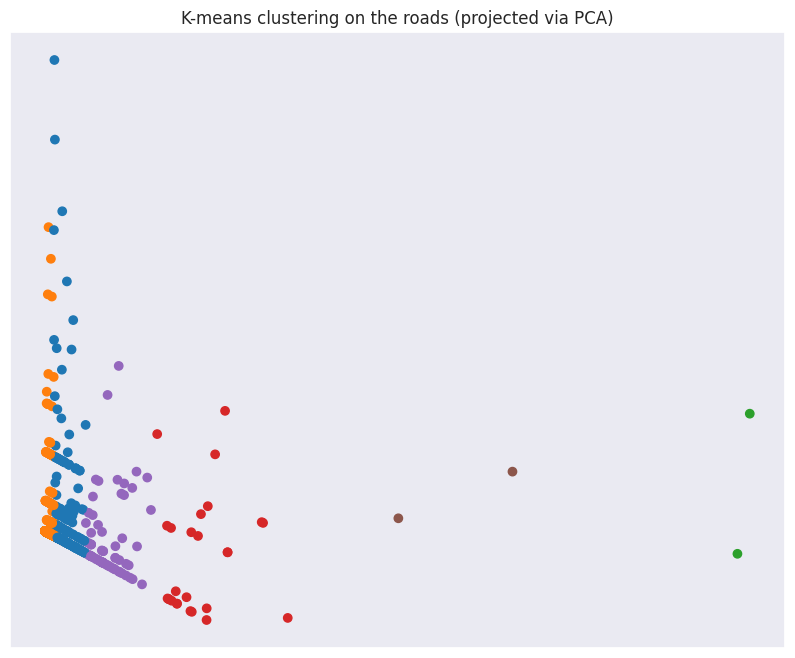
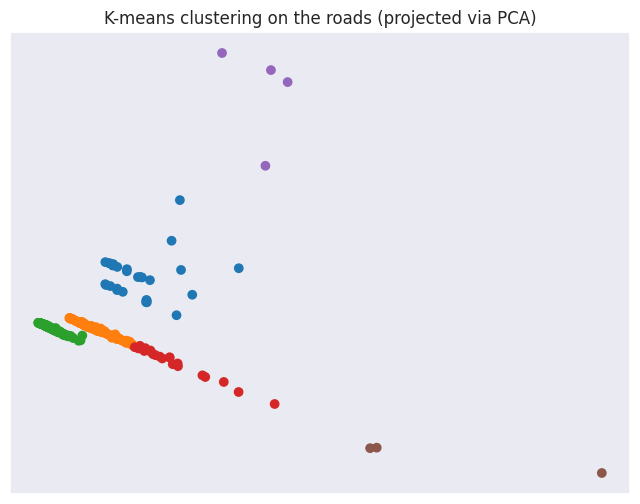
better classification and pca loadings

diff --git a/capstone_roads.py b/capstone_roads.py
@@ -28,7 +28,7 @@ plt.switch_backend("Agg")  # so no issues with GUI backend
 import seaborn as sns
 
 sns.set_style("darkgrid", {"axes.facecolor": ".9"})
-sns.set(rc={"figure.figsize": (10, 8)})
+sns.set(rc={"figure.figsize": (8, 6)})
 
 import pandas as pd
 from sklearn.cluster import KMeans
@@ -36,6 +36,7 @@ from sklearn.decomposition import PCA
 
 import matplotlib.colors as mcolors
 import os
+from numpy import abs, min, subtract
 
 
 def get_neighbors_and_update(this_dict, this_name, this_line, tree, data):
@@ -56,7 +57,7 @@ def create_data_for_road(i, set_of_looked_at_roads, list_of_dicts, tree, data):
     this_dict = {
         "road_name": "",
         "connections_names": [],
-        "is_named": True,
+        "is_named": 1,
         "self_connections": 0,
         "number_of_connector_roads": 0,
         "length": 0,
@@ -68,7 +69,7 @@ def create_data_for_road(i, set_of_looked_at_roads, list_of_dicts, tree, data):
     if (this_name[0] in {"1", "2", "3", "4", "5", "6", "7", "8", "9", "0"}) and (
         this_name[-1] in {"1", "2", "3", "4", "5", "6", "7", "8", "9", "0"}
     ):
-        this_dict["is_named"] = False
+        this_dict["is_named"] = 0.75  # arbitrary value for false
 
     if this_name not in set_of_looked_at_roads:
         # ignore it if the road has been looked at
@@ -187,10 +188,6 @@ def graph_analysis(list_of_dicts, start_time, shape_files):
         centr_list = list(centr.values())
         pge_rnk = nx.pagerank(G3)
         pge_rnk_list = list(pge_rnk.values())
-        # ic("barycenter is", str(nx.barycenter(G3))[:depth])
-        # too slow
-        # ic("information centrality is", str(nx.information_centrality(G3))[:depth])
-        # also too slow
         print(
             "the difference between roads before and after cleaning is",
             str(G.number_of_nodes()),
@@ -210,25 +207,17 @@ def graph_analysis(list_of_dicts, start_time, shape_files):
 
     return list_of_connected_dicts, connected_sfs
 
-    # classify(list_of_connected_dicts, k=6)
-
-    # from denseclus import DenseClus
-
-    # clf = DenseClus(
-    #     cluster_selection_method="leaf",
-    #     umap_combine_method="intersection_union_mapper",
-    # )
-
 
 def show_results(list_of_connected_dicts):
     ic("this might take some time")
     df = pd.DataFrame(list_of_connected_dicts)
     # takes a while to put back into queriable format
     df = df.drop(columns=["road_name", "connections_names"])
-    df["is_named"] = df["is_named"].astype(int)  # kmeans requires all to be numeric
     pd.set_option("display.max_columns", None)
 
-    print(df.head())
+    for col in df.columns:
+        df[col] = df[col] / max(df[col])
+    # normalize
 
     pd.reset_option("all")
 
@@ -239,10 +228,50 @@ def show_results(list_of_connected_dicts):
 
     pca = PCA(n_components=2)
     reduced_data = pca.fit_transform(df)
-    print(pca.explained_variance_ratio_)
+    print(
+        "our variance explained by the first two principle components are:",
+        pca.explained_variance_ratio_,
+    )
 
     tabl_cols = list(mcolors.TABLEAU_COLORS.values())
     cols = [tabl_cols[int(val)] for val in kmeans.labels_]
+
+    # https://stackoverflow.com/questions/39216897/plot-pca-loadings-and-loading-in-biplot-in-sklearn-like-rs-autoplot
+    # from Qiyun Zhu
+
+    # coordinates of features (i.e., loadings; note the transpose)
+    loadings = pca.components_[:2].T
+
+    # proportions of variance explained by axes
+    pvars = pca.explained_variance_ratio_[:2] * 100
+
+    arrows = loadings * abs(reduced_data).max(axis=0)
+
+    # empirical formula to determine arrow width
+    width = -0.0075 * min([subtract(*plt.xlim()), subtract(*plt.ylim())])
+
+    # features as arrows
+    for i, arrow in enumerate(arrows):
+        plt.arrow(
+            0,
+            0,
+            *arrow,
+            color="k",
+            alpha=0.5,
+            width=width,
+            ec="none",
+            length_includes_head=True,
+        )
+        plt.text(*(arrow * 1.05), df.columns[i], ha="center", va="center")
+
+    # axis labels
+    for i, axis in enumerate("xy"):
+        getattr(plt, f"{axis}ticks")([])
+        getattr(plt, f"{axis}label")(f"PC{i + 1} ({pvars[i]:.2f}%)")
+
+    plt.scatter(reduced_data[:, 0], reduced_data[:, 1], c=cols)
+    plt.savefig("pca_w_loadings", bbox_inches="tight")
+    plt.close()
 
     # Put the result into a color plot (saved as png, not interactive)
     fig, ax = plt.subplots()
@@ -320,43 +349,6 @@ def main(filepath):
     list_of_connected_dicts, _ = graph_analysis(list_of_dicts, start_time, shape_files)
 
     show_results(list_of_connected_dicts)
-
-    #######
-
-    # way too slow -- was going to deal with mixed data
-    # clf.fit(df)
-
-    # for i in range(clf.n_components):
-    #     sns.kdeplot(clf.mapper_.embedding_[:, i], shade=True)
-
-    # _ = sns.jointplot(
-    #     x=clf.mapper_.embedding_[:, 0], y=clf.mapper_.embedding_[:, -1], kind="kde"
-    # )
-
-    # labels = clf.score()
-
-    # print(labels, "\n")
-    # print(pd.DataFrame(labels).value_counts(normalize=True))
-
-    # _ = sns.jointplot(
-    #     x=clf.mapper_.embedding_[:, 0],
-    #     y=clf.mapper_.embedding_[:, 1],
-    #     hue=labels,
-    #     kind="kde",
-    # )
-
-    # _ = clf.hdbscan_.condensed_tree_.plot(
-    #     select_clusters=True,
-    #     selection_palette=sns.color_palette("deep", np.unique(labels).shape[0]),
-    # )
-
-    # df["segment"] = clf.score()
-
-    # numerics = (
-    #     df.select_dtypes(include=[int, float]).drop(["segment"], 1).columns.tolist()
-    # )
-
-    # df[numerics + ["segment"]].groupby(["segment"]).median()
 
 
 if __name__ == "__main__":

diff --git a/gui.py b/gui.py
@@ -14,40 +14,55 @@ import matplotlib.pyplot as plt
 import geopandas as gpd
 
 plt.switch_backend("Agg")  # so no issues with GUI backend
+import seaborn as sns
+
+sns.set_style("darkgrid", {"axes.facecolor": ".9"})
+sns.set(rc={"figure.figsize": (8, 6)})
 
 
 def main():
     dpg.create_context()
 
     def visualize(list_of_connected_dicts, shape_files, cols_list):
-        width, height, channels, data = dpg.load_image("road_pca.png")
-
-        with dpg.texture_registry(show=False):
-            dpg.add_static_texture(
-                width=width, height=height, default_value=data, tag="road_pca"
-            )
-
-        gpd_files = gpd.GeoSeries(shape_files, crs=4326)
+        gpd_files = gpd.GeoSeries(shape_files, crs=4326)  # passed in shape_files
         fig, ax = plt.subplots()
         gpd_files.plot(ax=ax, color=cols_list)
 
         plt.savefig(
             "road_clustering.png", bbox_inches="tight"
         )  # puts it in the working directory
+        plt.close()
 
-        width, height, channels, data2 = dpg.load_image("road_clustering.png")
+        width1, height1, channels, data2 = dpg.load_image("road_clustering.png")
+        width2, height2, channels, data_loadings = dpg.load_image("pca_w_loadings.png")
+        width3, height3, channels, data = dpg.load_image("road_pca.png")
 
         with dpg.texture_registry(show=False):
             dpg.add_static_texture(
-                width=width, height=height, default_value=data2, tag="road_clustering"
+                width=width1,
+                height=height1,
+                default_value=data2,
+                tag="road_clustering",
             )
-        # cols_list
+        with dpg.texture_registry(show=False):
+            dpg.add_static_texture(
+                width=width2,
+                height=height2,
+                default_value=data_loadings,
+                tag="pca_w_loadings",
+            )
+        with dpg.texture_registry(show=False):
+            dpg.add_static_texture(
+                width=width3, height=height3, default_value=data, tag="road_pca"
+            )
+
         with dpg.window(label="Clustering Results"):
             dpg.add_image("road_clustering")
+            dpg.add_image("pca_w_loadings")
             dpg.add_image("road_pca")
 
     def run_script():
-        filepath = dpg.get_value(text)
+        filepath = dpg.get_value(fp)
         print("our filepath is", filepath)
         dpg.hide_item(run_button)
         dpg.show_item(slow_warning)
@@ -78,7 +93,7 @@ def main():
                 )
                 dpg.set_value(
                     "viewer",
-                    f"{val} out of {num_roads} ({round(val*100/num_roads, 1)}%)",
+                    f"{val + 1} out of {num_roads} ({round(val*100/num_roads, 1)}%)",
                 )
             except:
                 dpg.hide_item(progress_bar)
@@ -90,6 +105,10 @@ def main():
 
         cols_list = capstone_roads.show_results(list_of_connected_dicts)
         dpg.hide_item(slow_warning)
+        dpg.hide_item(text1)
+        dpg.hide_item(button1)
+        dpg.hide_item(button2)
+        dpg.hide_item(text2)
         visualize(list_of_connected_dicts, shape_files, cols_list)
 
     def get_user_link():
@@ -99,7 +118,7 @@ def main():
         )
         print(directory)
         dir = str(directory[0])
-        dpg.set_value(text, dir)
+        dpg.set_value(fp, dir)
         dpg.show_item(run_button)
 
     def download():
@@ -125,22 +144,22 @@ def main():
             )
 
     with dpg.window(label="Chose Road Network to Analyze", width=600, height=400):
-        dpg.add_text("Select the City / County to download your roads from")
-        dpg.add_button(label="Download Roads to Analyze", callback=download)
-        dpg.add_button(
+        text1 = dpg.add_text("Select the City / County to download your roads from")
+        button1 = dpg.add_button(label="Download Roads to Analyze", callback=download)
+        button2 = dpg.add_button(
             label="If you don't find your city / town, click here to find the county (then download from above)",
             callback=city_finder,
         )
-        dpg.add_text("...once files are downloaded")
+        text2 = dpg.add_text("...once files are downloaded")
         zip = dpg.add_button(
             label="Link to .zip Folder of Roads or .shp file", callback=get_user_link
         )
         dpg.add_text("")
 
-        text = dpg.add_text(label="file_path", default_value="no path defined yet")
+        fp = dpg.add_text(label="file_path", default_value="no path defined yet")
 
         run_button = dpg.add_button(
-            label="Run", callback=run_script, user_data=dpg.get_value(text)
+            label="Run", callback=run_script, user_data=dpg.get_value(fp)
         )
         dpg.hide_item(run_button)  # only show once the user puts in the zip file
 
